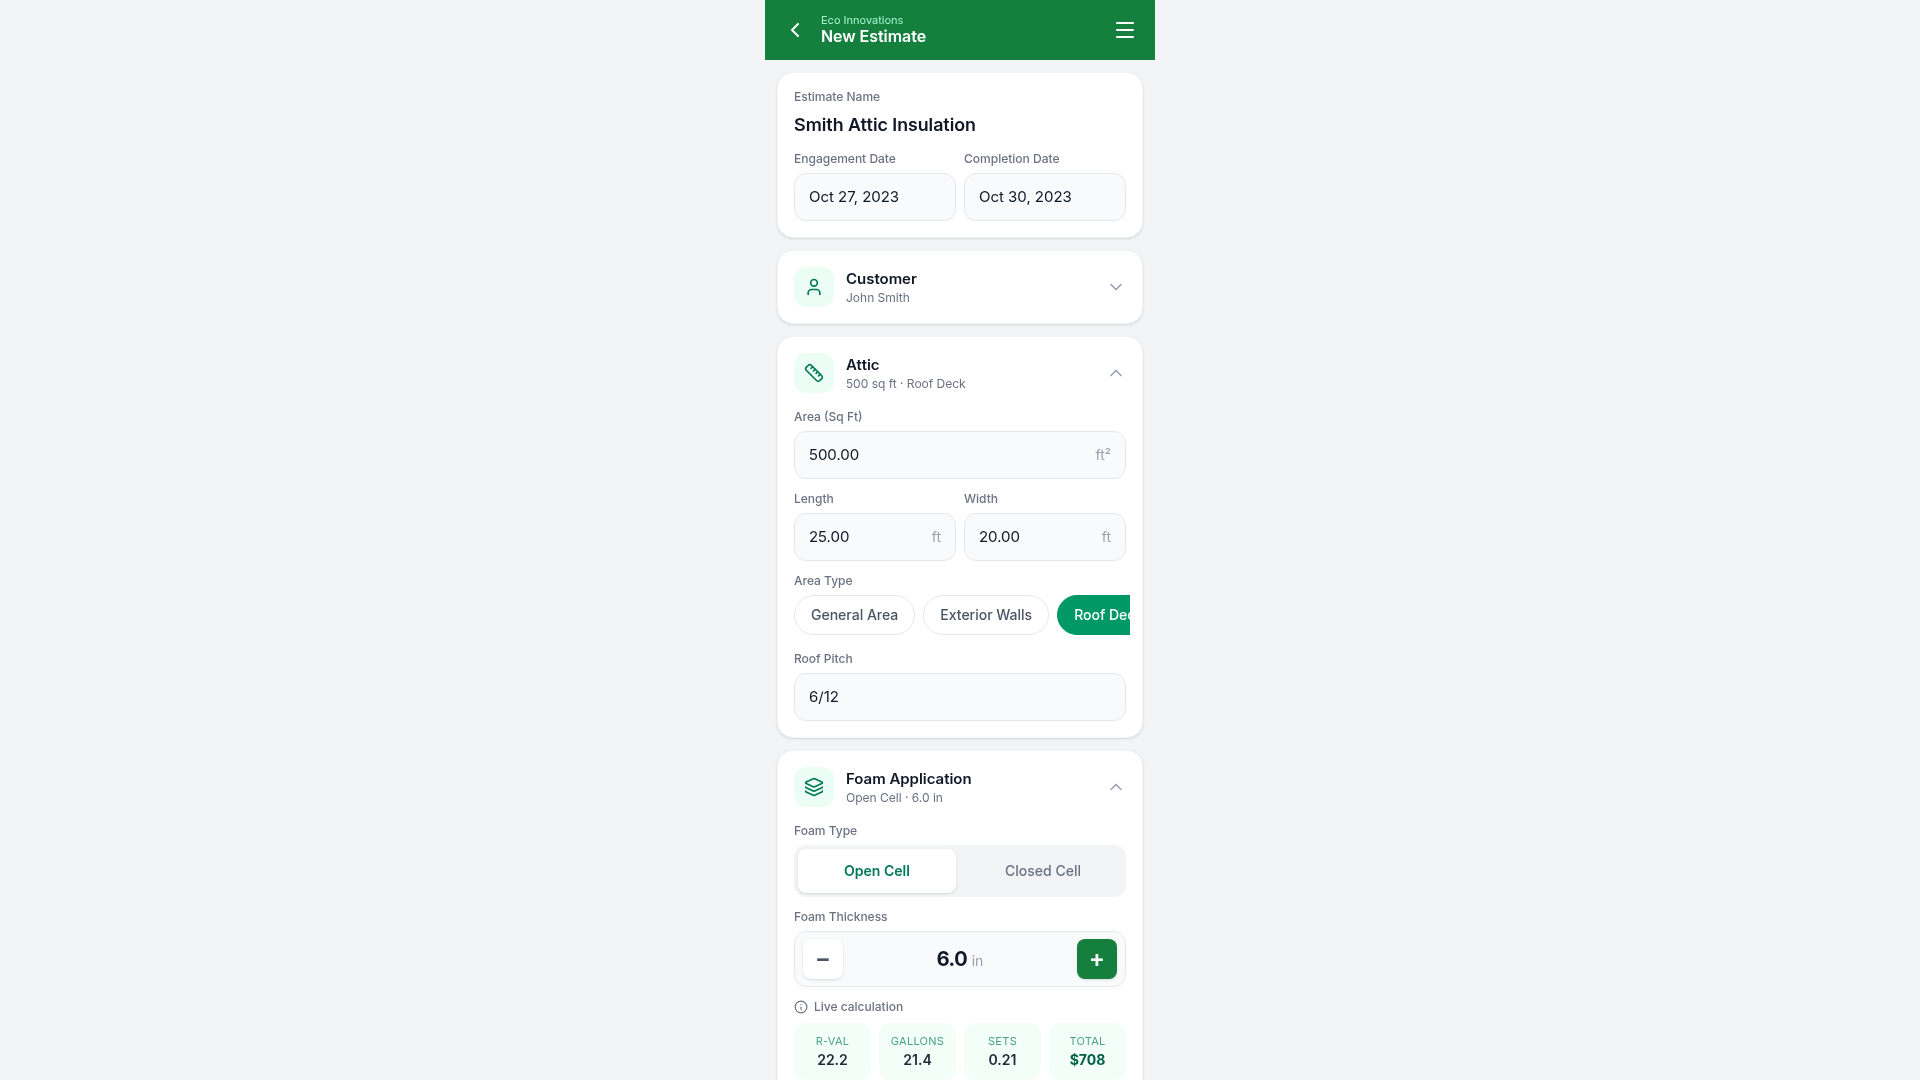
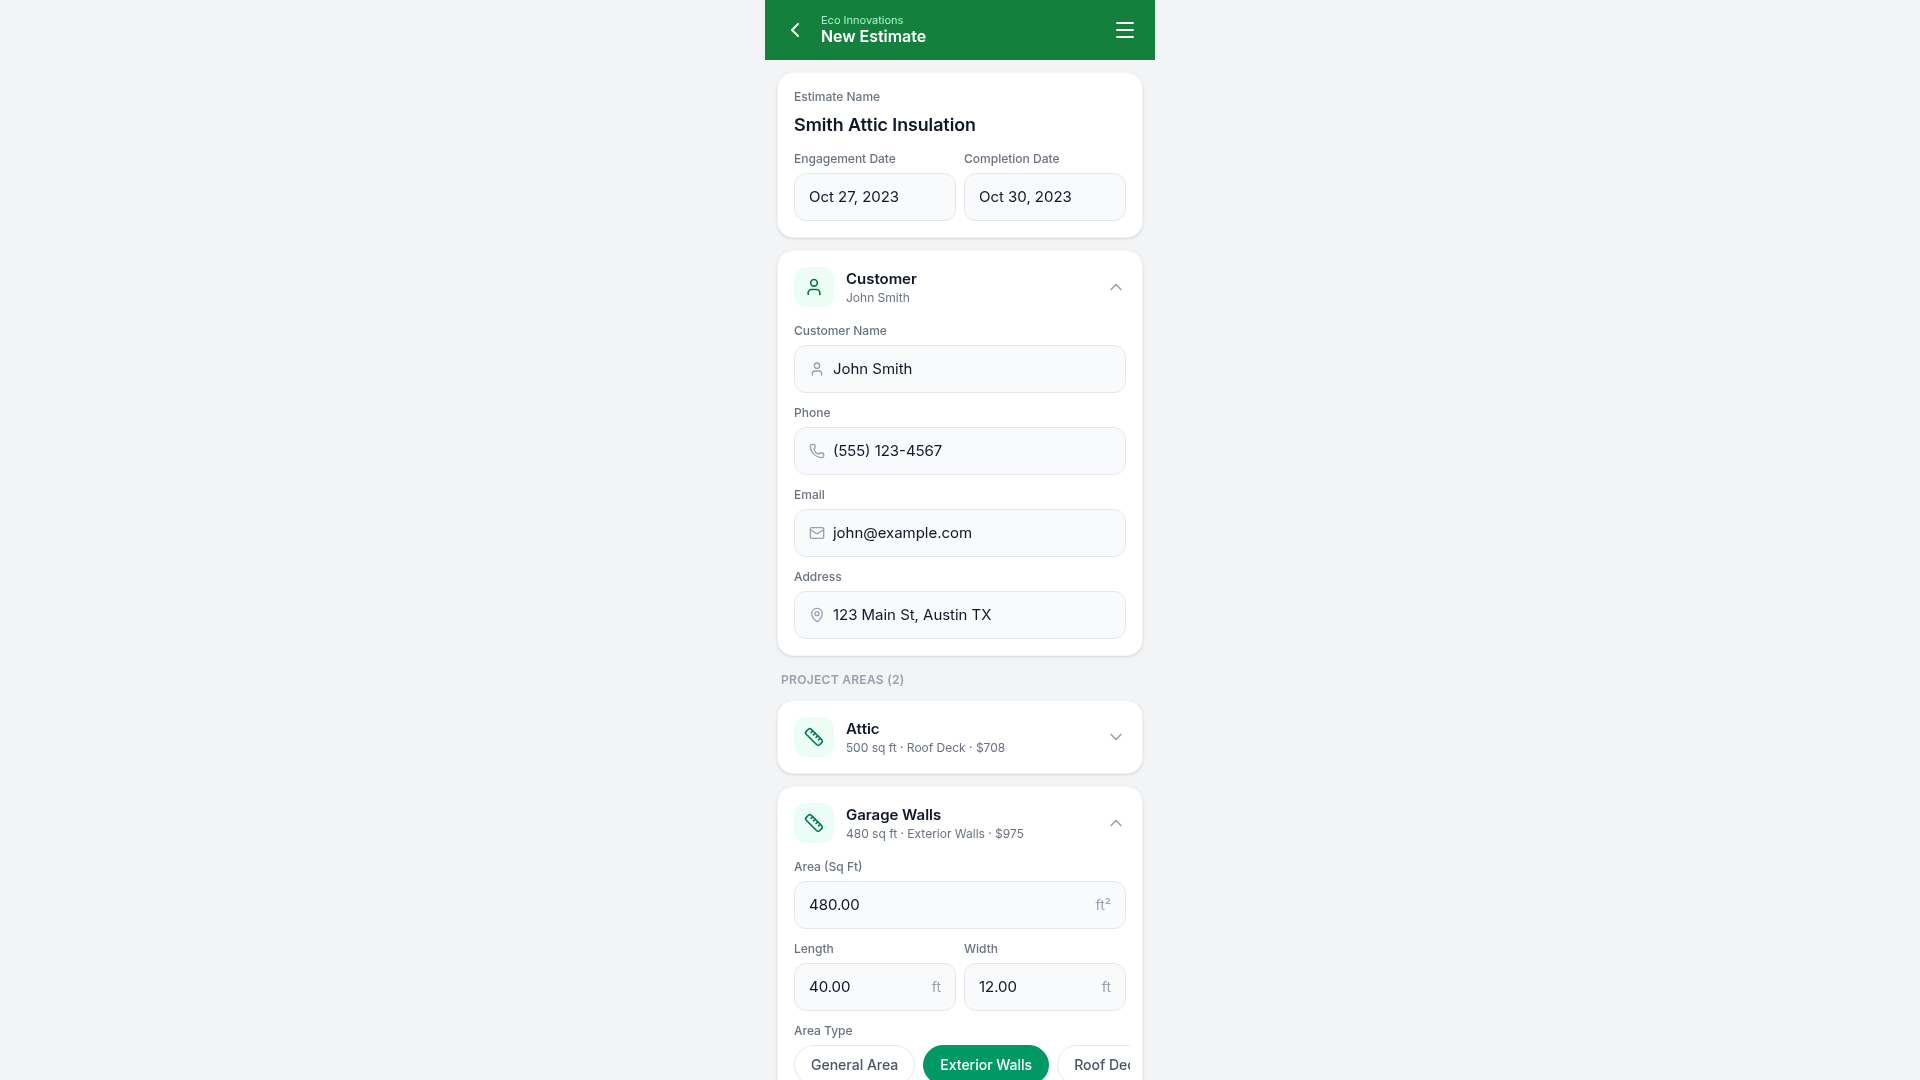
Add multiple foam applications and expanded customer details to the mobile quote
Introduce `ApplicationCard` component for managing multiple foam applications within an area, refactor `Section` component to accept a `right` prop for custom actions, and update the screenshot to reflect these enhancements.

Replit-Commit-Author: Agent
Replit-Commit-Session-Id: 4f2d65ce-1ae4-48de-8a7b-d4b65515dc92
Replit-Commit-Checkpoint-Type: full_checkpoint
Replit-Commit-Event-Id: 37bbe82c-6a5f-40f1-8eba-20c3591884f1
Replit-Commit-Screenshot-Url: https://storage.googleapis.com/screenshot-production-us-central1/d47e4693-cb07-420a-b786-db5ba16d76d1/4f2d65ce-1ae4-48de-8a7b-d4b65515dc92/cMOvGuH
Replit-Helium-Checkpoint-Created: true

diff --git a/artifacts/mockup-sandbox/src/components/mockups/mobile-quote/MobileQuote.tsx b/artifacts/mockup-sandbox/src/components/mockups/mobile-quote/MobileQuote.tsx
@@ -10,10 +10,10 @@ import {
   Plus,
   ChevronDown,
   ChevronUp,
-  Check,
-  Layers,
-  Send,
   Info,
+  Send,
+  Layers,
+  Trash2,
 } from "lucide-react";
 
 const GREEN = "#15803d";
@@ -24,9 +24,10 @@ type SectionProps = {
   subtitle?: string;
   children: React.ReactNode;
   defaultOpen?: boolean;
+  right?: React.ReactNode;
 };
 
-function Section({ icon, title, subtitle, children, defaultOpen = true }: SectionProps) {
+function Section({ icon, title, subtitle, children, defaultOpen = true, right }: SectionProps) {
   const [open, setOpen] = useState(defaultOpen);
   return (
     <div className="bg-white rounded-2xl shadow-sm border border-gray-100 overflow-hidden">
@@ -41,6 +42,7 @@ function Section({ icon, title, subtitle, children, defaultOpen = true }: Sectio
           <span className="block text-[15px] font-semibold text-gray-900">{title}</span>
           {subtitle && <span className="block text-xs text-gray-500">{subtitle}</span>}
         </span>
+        {right}
         {open ? (
           <ChevronUp className="h-5 w-5 text-gray-400" />
         ) : (
@@ -93,15 +95,135 @@ function Stat({ label, value, strong }: { label: string; value: string; strong?:
   return (
     <div className="flex flex-col items-center justify-center rounded-xl bg-emerald-50/60 py-2.5">
       <span className="text-[11px] uppercase tracking-wide text-emerald-700/70">{label}</span>
-      <span className={`text-sm ${strong ? "font-bold text-emerald-800" : "font-semibold text-gray-800"}`}>
+      <span
+        className={`text-sm ${strong ? "font-bold text-emerald-800" : "font-semibold text-gray-800"}`}
+      >
         {value}
       </span>
     </div>
   );
 }
 
+type AppData = {
+  foam: string;
+  thickness: string;
+  rval: string;
+  gallons: string;
+  sets: string;
+  total: string;
+};
+
+function ApplicationCard({ app, open }: { app: AppData; open?: boolean }) {
+  const [edit, setEdit] = useState(open ?? false);
+  return (
+    <div className="rounded-xl border border-gray-200 bg-gray-50/70 overflow-hidden">
+      <button
+        onClick={() => setEdit((e) => !e)}
+        className="flex w-full items-center gap-2 px-3 py-3 active:bg-gray-100"
+      >
+        <Layers className="h-4 w-4 text-emerald-600" />
+        <span className="flex-1 text-left text-sm font-semibold text-gray-800">
+          {app.foam}
+          <span className="ml-1 font-normal text-gray-400">· {app.thickness} in</span>
+        </span>
+        <span className="text-sm font-bold text-emerald-700">{app.total}</span>
+        {edit ? (
+          <ChevronUp className="h-4 w-4 text-gray-400" />
+        ) : (
+          <ChevronDown className="h-4 w-4 text-gray-400" />
+        )}
+      </button>
+      {edit && (
+        <div className="space-y-3 px-3 pb-3">
+          <div className="grid grid-cols-2 gap-2 rounded-xl bg-gray-100 p-1">
+            <span
+              className={`flex h-10 items-center justify-center rounded-lg text-sm font-semibold ${
+                app.foam === "Open Cell"
+                  ? "bg-white text-emerald-700 shadow-sm"
+                  : "text-gray-500"
+              }`}
+            >
+              Open Cell
+            </span>
+            <span
+              className={`flex h-10 items-center justify-center rounded-lg text-sm font-semibold ${
+                app.foam === "Closed Cell"
+                  ? "bg-white text-emerald-700 shadow-sm"
+                  : "text-gray-500"
+              }`}
+            >
+              Closed Cell
+            </span>
+          </div>
+          <div className="flex items-center justify-between rounded-xl border border-gray-200 bg-white px-2 h-12">
+            <button className="flex h-8 w-8 items-center justify-center rounded-lg bg-gray-100 text-xl font-semibold text-gray-600">
+              −
+            </button>
+            <span className="text-base font-bold text-gray-900">
+              {app.thickness}
+              <span className="ml-1 text-sm font-normal text-gray-400">in</span>
+            </span>
+            <button
+              className="flex h-8 w-8 items-center justify-center rounded-lg text-xl font-semibold text-white"
+              style={{ backgroundColor: GREEN }}
+            >
+              +
+            </button>
+          </div>
+          <div className="grid grid-cols-4 gap-2">
+            <Stat label="R-Val" value={app.rval} />
+            <Stat label="Gallons" value={app.gallons} />
+            <Stat label="Sets" value={app.sets} />
+            <Stat label="Total" value={app.total} strong />
+          </div>
+        </div>
+      )}
+    </div>
+  );
+}
+
+function AreaSummary({
+  rows,
+  base,
+  markup,
+  total,
+}: {
+  rows: { label: string; value: string }[];
+  base: string;
+  markup: string;
+  total: string;
+}) {
+  return (
+    <div className="rounded-xl bg-emerald-50/70 border border-emerald-100 p-3">
+      <div className="mb-2 text-xs font-semibold uppercase tracking-wide text-emerald-700">
+        Area Summary
+      </div>
+      <div className="space-y-1.5 text-sm">
+        {rows.map((r) => (
+          <div key={r.label} className="flex justify-between">
+            <span className="text-gray-500">{r.label}</span>
+            <span className="font-medium text-gray-800">{r.value}</span>
+          </div>
+        ))}
+        <div className="my-1 border-t border-dashed border-emerald-200" />
+        <div className="flex justify-between">
+          <span className="text-gray-500">Base Cost</span>
+          <span className="font-medium text-gray-800">{base}</span>
+        </div>
+        <div className="flex justify-between">
+          <span className="text-gray-500">Markup</span>
+          <span className="font-medium text-gray-800">{markup}</span>
+        </div>
+        <div className="flex justify-between">
+          <span className="font-semibold text-gray-700">Area Total</span>
+          <span className="text-base font-bold text-emerald-800">{total}</span>
+        </div>
+      </div>
+    </div>
+  );
+}
+
 export function MobileQuote() {
-  const [thickness] = useState(6.0);
   const [showSummary, setShowSummary] = useState(false);
 
   return (
@@ -136,13 +258,8 @@ export function MobileQuote() {
             </div>
           </div>
 
-          {/* Customer */}
-          <Section
-            icon={<User className="h-5 w-5" />}
-            title="Customer"
-            subtitle="John Smith"
-            defaultOpen={false}
-          >
+          {/* Customer (expanded) */}
+          <Section icon={<User className="h-5 w-5" />} title="Customer" subtitle="John Smith">
             <div className="space-y-3">
               <Field label="Customer Name" value="John Smith" icon={<User className="h-4 w-4" />} />
               <Field label="Phone" value="(555) 123-4567" icon={<Phone className="h-4 w-4" />} />
@@ -155,11 +272,19 @@ export function MobileQuote() {
             </div>
           </Section>
 
-          {/* Project area */}
+          {/* Section heading for areas */}
+          <div className="flex items-center justify-between px-1 pt-1">
+            <span className="text-xs font-semibold uppercase tracking-wide text-gray-400">
+              Project Areas (2)
+            </span>
+          </div>
+
+          {/* Area 1 — collapsed */}
           <Section
             icon={<Ruler className="h-5 w-5" />}
             title="Attic"
-            subtitle="500 sq ft · Roof Deck"
+            subtitle="500 sq ft · Roof Deck · $708"
+            defaultOpen={false}
           >
             <div className="space-y-3">
               <Field label="Area (Sq Ft)" value="500.00" suffix="ft²" />
@@ -167,75 +292,84 @@ export function MobileQuote() {
                 <Field label="Length" value="25.00" suffix="ft" />
                 <Field label="Width" value="20.00" suffix="ft" />
               </div>
+              <Field label="Roof Pitch" value="6/12" />
+              <ApplicationCard
+                app={{
+                  foam: "Open Cell",
+                  thickness: "6.0",
+                  rval: "22.2",
+                  gallons: "21.4",
+                  sets: "0.21",
+                  total: "$708",
+                }}
+              />
+            </div>
+          </Section>
+
+          {/* Area 2 — expanded, two applications + summary */}
+          <Section
+            icon={<Ruler className="h-5 w-5" />}
+            title="Garage Walls"
+            subtitle="480 sq ft · Exterior Walls · $975"
+          >
+            <div className="space-y-3">
+              <Field label="Area (Sq Ft)" value="480.00" suffix="ft²" />
+              <div className="grid grid-cols-2 gap-2">
+                <Field label="Length" value="40.00" suffix="ft" />
+                <Field label="Width" value="12.00" suffix="ft" />
+              </div>
               <div>
                 <span className="mb-1.5 block text-xs font-medium text-gray-500">Area Type</span>
                 <div className="-mx-1 flex gap-2 overflow-x-auto px-1 pb-1">
                   <Pill label="General Area" />
-                  <Pill label="Exterior Walls" />
-                  <Pill label="Roof Deck" active />
+                  <Pill label="Exterior Walls" active />
+                  <Pill label="Roof Deck" />
                   <Pill label="Gable" />
                 </div>
               </div>
-              <Field label="Roof Pitch" value="6/12" />
-            </div>
-          </Section>
 
-          {/* Foam application */}
-          <Section
-            icon={<Layers className="h-5 w-5" />}
-            title="Foam Application"
-            subtitle="Open Cell · 6.0 in"
-          >
-            <div className="space-y-3">
-              <div>
-                <span className="mb-1.5 block text-xs font-medium text-gray-500">Foam Type</span>
-                <div className="grid grid-cols-2 gap-2 rounded-xl bg-gray-100 p-1">
-                  <span className="flex h-11 items-center justify-center rounded-lg bg-white text-sm font-semibold text-emerald-700 shadow-sm">
-                    Open Cell
-                  </span>
-                  <span className="flex h-11 items-center justify-center rounded-lg text-sm font-medium text-gray-500">
-                    Closed Cell
-                  </span>
-                </div>
-              </div>
-
-              {/* Thickness stepper */}
-              <div>
-                <span className="mb-1.5 block text-xs font-medium text-gray-500">
-                  Foam Thickness
-                </span>
-                <div className="flex items-center justify-between rounded-xl border border-gray-200 bg-gray-50 px-2 h-14">
-                  <button className="flex h-10 w-10 items-center justify-center rounded-lg bg-white text-2xl font-semibold text-gray-600 shadow-sm active:bg-gray-100">
-                    −
-                  </button>
-                  <span className="text-xl font-bold text-gray-900">
-                    {thickness.toFixed(1)}
-                    <span className="ml-1 text-sm font-normal text-gray-400">in</span>
-                  </span>
-                  <button
-                    className="flex h-10 w-10 items-center justify-center rounded-lg text-2xl font-semibold text-white shadow-sm"
-                    style={{ backgroundColor: GREEN }}
-                  >
-                    +
-                  </button>
-                </div>
-              </div>
-
-              {/* Live output */}
-              <div>
-                <div className="mb-2 flex items-center gap-1.5 text-xs font-medium text-gray-500">
-                  <Info className="h-3.5 w-3.5" /> Live calculation
-                </div>
-                <div className="grid grid-cols-4 gap-2">
-                  <Stat label="R-Val" value="22.2" />
-                  <Stat label="Gallons" value="21.4" />
-                  <Stat label="Sets" value="0.21" />
-                  <Stat label="Total" value="$708" strong />
-                </div>
-              </div>
-
+              <span className="block pt-1 text-xs font-medium text-gray-500">
+                Foam Applications
+              </span>
+              <ApplicationCard
+                open
+                app={{
+                  foam: "Open Cell",
+                  thickness: "5.0",
+                  rval: "18.5",
+                  gallons: "21.4",
+                  sets: "0.21",
+                  total: "$550",
+                }}
+              />
+              <ApplicationCard
+                app={{
+                  foam: "Closed Cell",
+                  thickness: "1.5",
+                  rval: "7.5",
+                  gallons: "10.0",
+                  sets: "0.10",
+                  total: "$425",
+                }}
+              />
               <button className="flex w-full items-center justify-center gap-2 rounded-xl border-2 border-dashed border-emerald-300 py-3 text-sm font-semibold text-emerald-700 active:bg-emerald-50">
                 <Plus className="h-4 w-4" /> Add Foam Application
+              </button>
+
+              <AreaSummary
+                rows={[
+                  { label: "Sq Ft", value: "480" },
+                  { label: "Combined R-Value", value: "26.0" },
+                  { label: "Open Cell", value: "21.4 gal (0.21 sets)" },
+                  { label: "Closed Cell", value: "10.0 gal (0.10 sets)" },
+                ]}
+                base="$550.00"
+                markup="$425.00"
+                total="$975.00"
+              />
+
+              <button className="flex w-full items-center justify-center gap-2 py-1 text-xs font-medium text-red-400 active:text-red-500">
+                <Trash2 className="h-3.5 w-3.5" /> Remove Area
               </button>
             </div>
           </Section>
@@ -258,7 +392,7 @@ export function MobileQuote() {
                 <div className="my-1 border-t border-dashed border-gray-200" />
                 <Row label="Total Base Cost" value="$1,200.00" muted />
                 <Row label="Sales Commission" value="$279.30" muted />
-                <Row label="Price / Sq Ft" value="$4.66" muted />
+                <Row label="Price / Sq Ft" value="$2.38" muted />
               </div>
             </div>
           )}
@@ -289,14 +423,17 @@ export function MobileQuote() {
             >
               <Send className="h-5 w-5" /> Review &amp; Send Quote
             </button>
-            <button className="mt-2 flex w-full items-center justify-center gap-1 text-xs font-medium text-gray-400">
+            <button
+              onClick={() => setShowSummary((s) => !s)}
+              className="mt-2 flex w-full items-center justify-center gap-1 text-xs font-medium text-gray-400"
+            >
               {showSummary ? (
                 <>
                   Hide breakdown <ChevronDown className="h-3.5 w-3.5" />
                 </>
               ) : (
                 <>
-                  Tap totals for full breakdown <ChevronUp className="h-3.5 w-3.5" />
+                  Tap for full breakdown <ChevronUp className="h-3.5 w-3.5" />
                 </>
               )}
             </button>
@@ -322,9 +459,7 @@ function Row({
     <div className="flex items-center justify-between">
       <span className={muted ? "text-gray-500" : "text-gray-700"}>{label}</span>
       <span
-        className={
-          strong ? "text-base font-bold text-gray-900" : "font-semibold text-gray-800"
-        }
+        className={strong ? "text-base font-bold text-gray-900" : "font-semibold text-gray-800"}
       >
         {value}
       </span>
